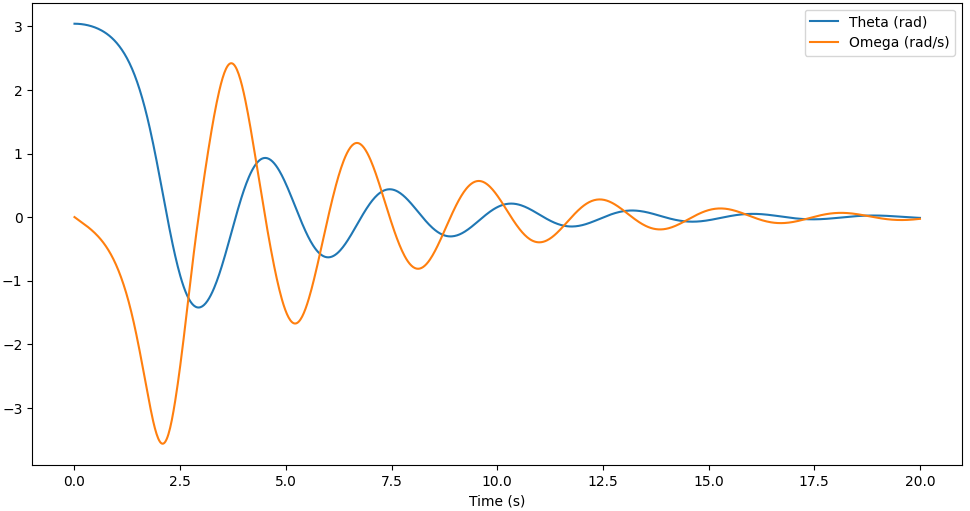
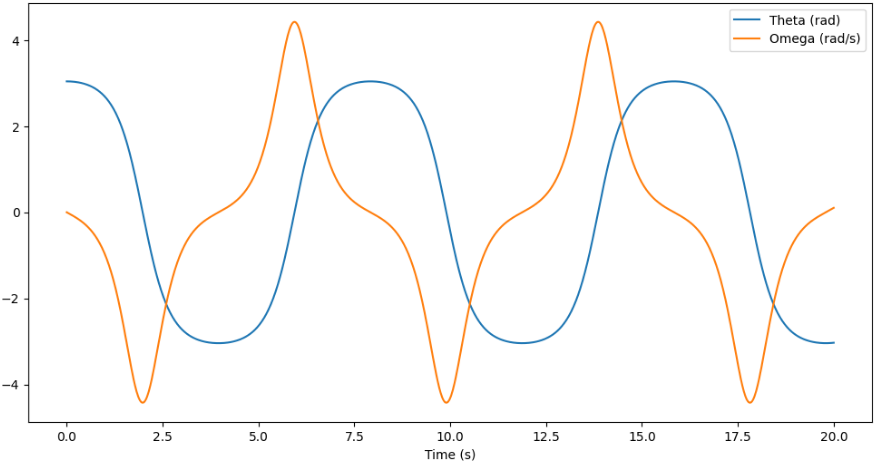
README updated with pendulum corrections

diff --git a/README.md b/README.md
@@ -27,7 +27,7 @@ def pendulum(t, x, *,
     # State space
     dx = np.zeros(2)
     dx[0] = x[1]
-    dx[1] = -g/L * sin(x[0]) - drag/m*x[1] + 1/(m*L**2)*u
+    dx[1] = -g/L * sin(x[0]) - drag/(m*L**2)*x[1] + 1/(m*L**2)*u
 
     return dx
 
@@ -35,7 +35,7 @@ def pendulum(t, x, *,
 These models can be integrated using `solve_ivp` from `scipy`:
 
 ```python
-pendulum_states = solve_ivp(lambda t, x: pendulum(t, x, m=1, L=2, drag=0.5, u=0),
+pendulum_states = solve_ivp(lambda t, x: pendulum(t, x, m=1, L=2, drag=0.0, u=0),
                             t_span=(0, 20), y0=[np.pi-0.1, 0], t_eval=np.linspace(0, 20, 1000))
 
 for i, label, in enumerate(['Theta (rad)', 'Omega (rad/s)']):
